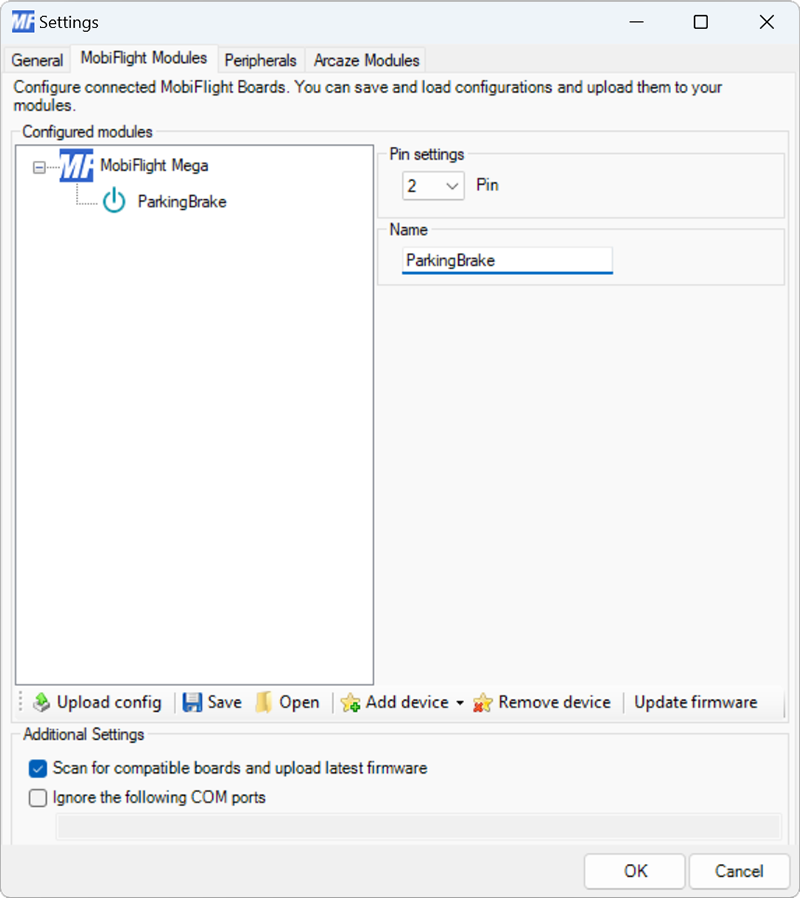
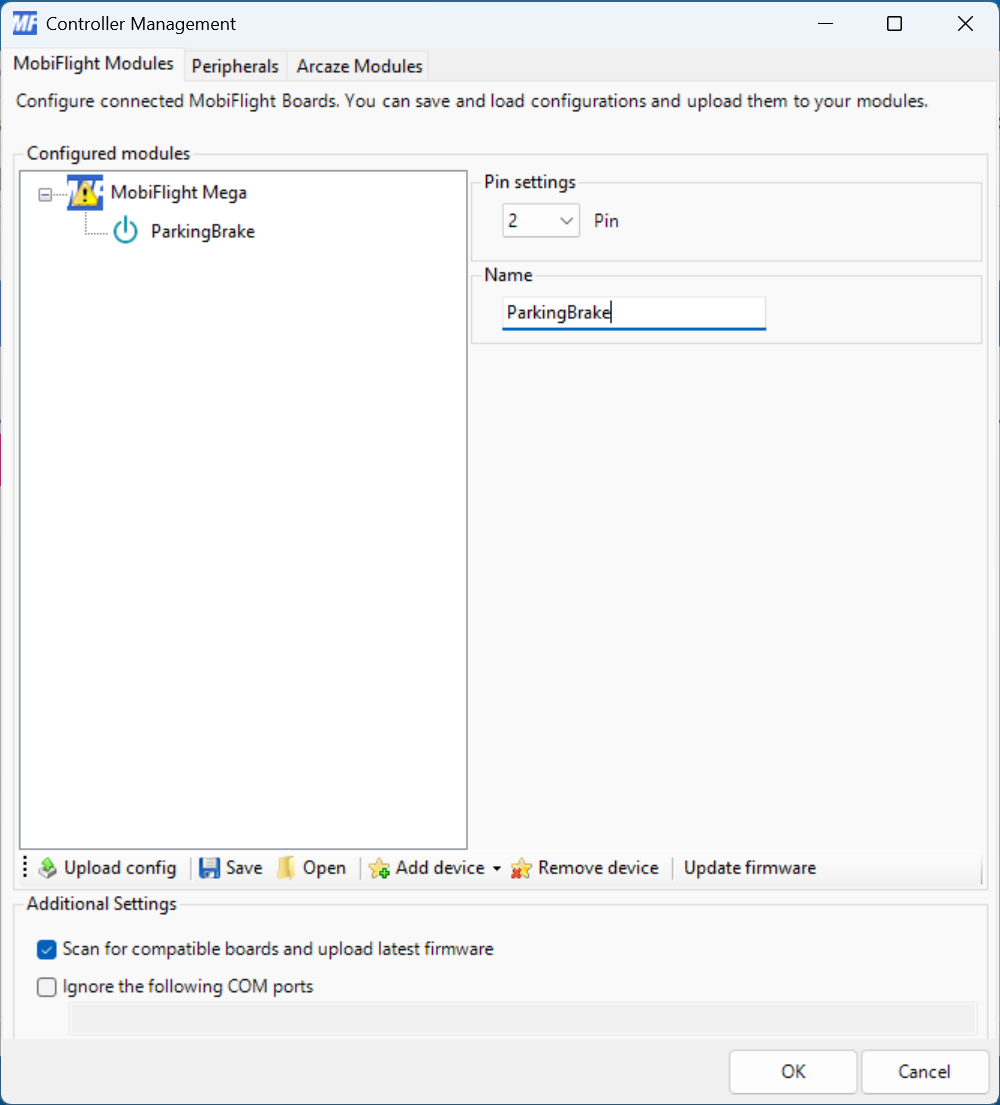
Update how to access the mobiflight modules dialog Fixes #564

diff --git a/content/devices/button-switch/adding-device/index.md b/content/devices/button-switch/adding-device/index.md
@@ -13,13 +13,9 @@ weight: 20
 
 ### Open the settings dialog to edit modules
 
-Click on the **Extras** menu and select **Settings** to open the settings dialog.
+Click on the **Extras** menu and select **Controller Management** to open the controller dialog.
 
-{{< screenshot image="/app/extras-settings-menu-item.png" title="Screenshot of the Extras menu with the Settings menu item selected." >}}
-
-Then click on the **MobiFlight Modules** tab to display the modules.
-
-{{< screenshot image="/app/settings-modules-tab.png" title="Screenshot of the Settings dialog with the MobiFlight Modules tab highlighted." >}}
+{{< screenshot image="/app/extras-controller-management-menu-item.png" title="Screenshot of the Extras menu with the Controller Management menu item selected." >}}
 
 ### Add the button or switch
 
